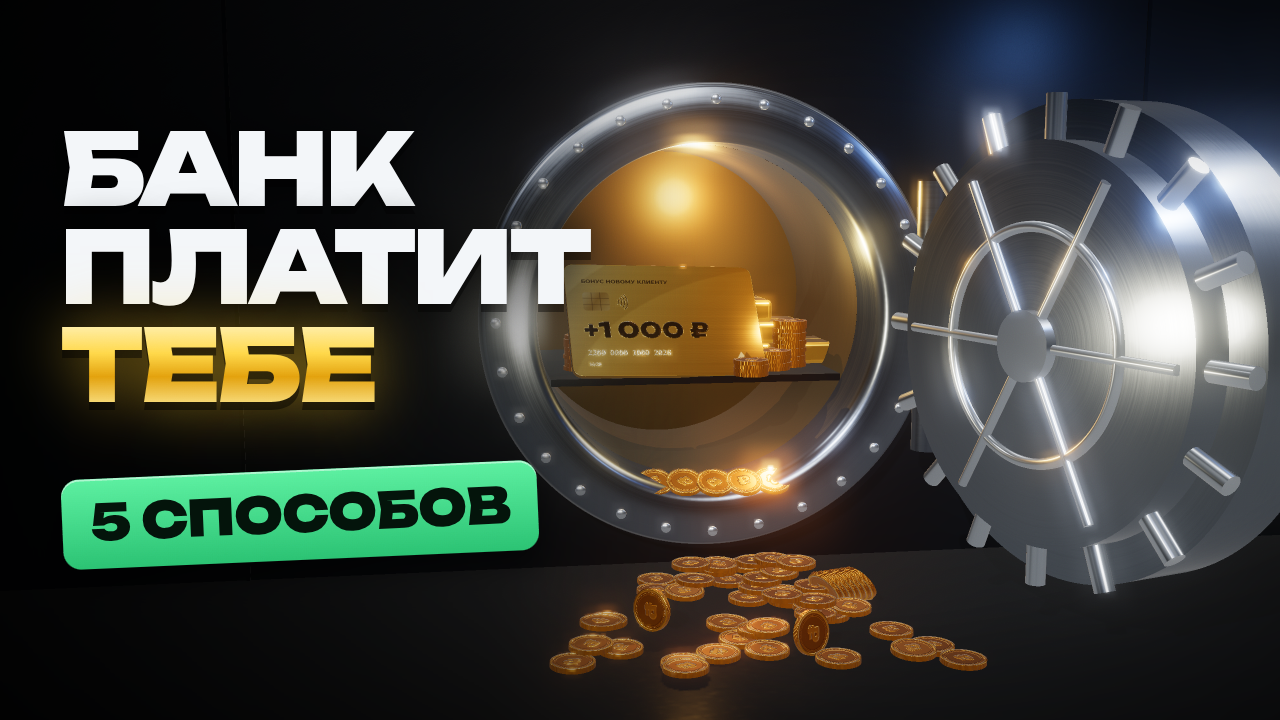
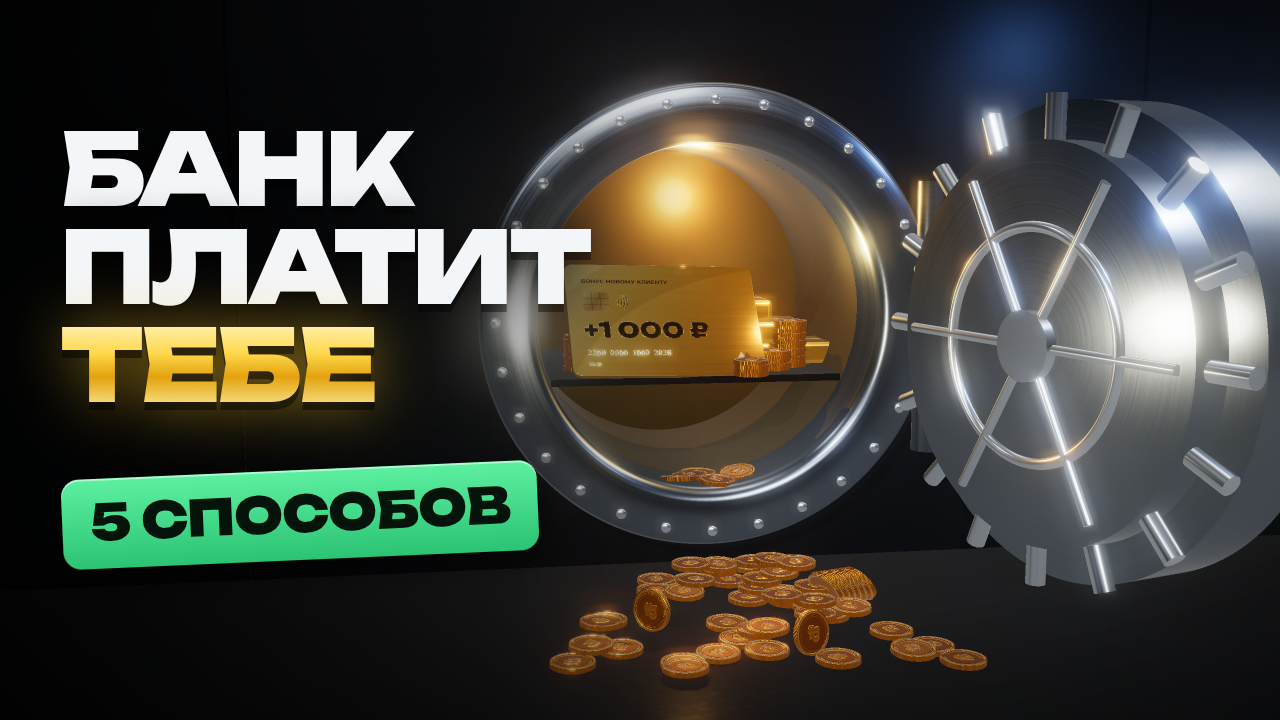
Превью №2: монеты на пороге лежат на изогнутом дне проёма, не проваливаются в металл
Claude-Session: https://claude.ai/code/session_01RfCfKDkbyGyDNmw4SWPkFj

Changed region(s): [[0.5, 0.5806, 0.6562, 0.7639]]

diff --git a/youtube/02-bank-earns/thumb/vault3d.html b/youtube/02-bank-earns/thumb/vault3d.html
@@ -229,7 +229,11 @@ for (let i = 0; i < 46; i++) {
 for (let i = 0; i < 7; i++) coin(C.x + .9 + i * .05, FLOOR + CR * .62 + i * .012, 1.5 + i * .02, 0, .5, -1.0);   // упавший столбик «веером»
 coin(C.x - .95, FLOOR + CR, 2.1, Math.PI / 2 - .15, 0, .8);                                                        // монета на ребре
 coin(C.x + .35, FLOOR + CR, 2.9, Math.PI / 2 - .2, 0, -.5);
-for (let i = 0; i < 5; i++) coin(C.x - .6 + i * .32, C.y - R0 + .07, .05 + rnd() * .15, .5, rnd() * 6, 0);         // выкатываются через порог
+// монеты на пороге: лежат на изогнутом дне проёма (высота и наклон — по окружности R0), не проваливаются в металл
+for (const [dx, z] of [[-.3, -.16], [-.14, -.34], [.12, -.08], [.4, -.26], [-.02, -.46]]) {
+  const yb = C.y - Math.sqrt(R0 * R0 - dx * dx), ang = Math.atan2(dx, Math.sqrt(R0 * R0 - dx * dx));
+  coin(C.x + dx + Math.sin(ang) * CT / 2 * -1, yb + Math.cos(ang) * (CT / 2 + .004), z, 0, rnd() * 6, ang);
+}
 
 // ---------- свет ----------
 scene.add(new THREE.HemisphereLight(0x3a4250, 0x0a0806, .35));
